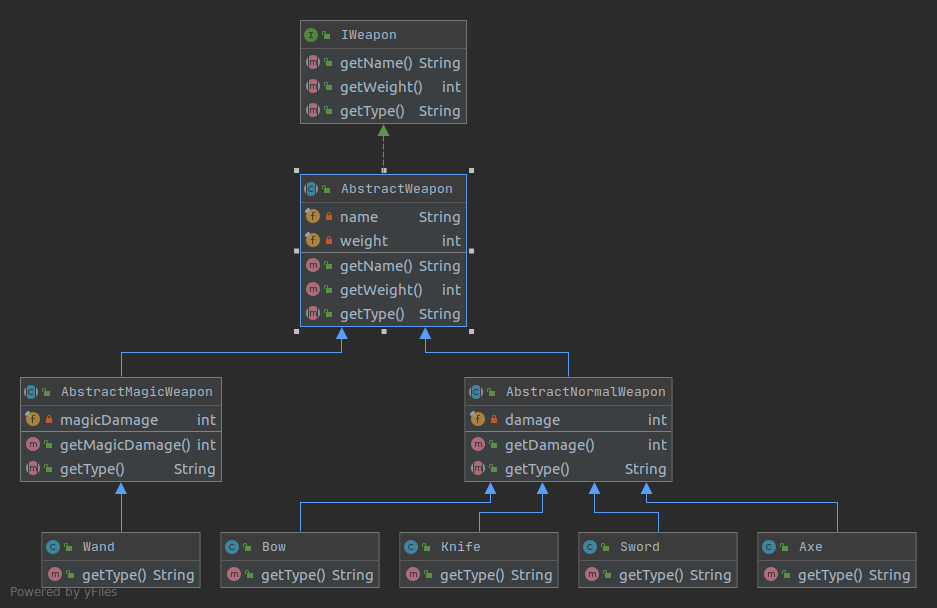
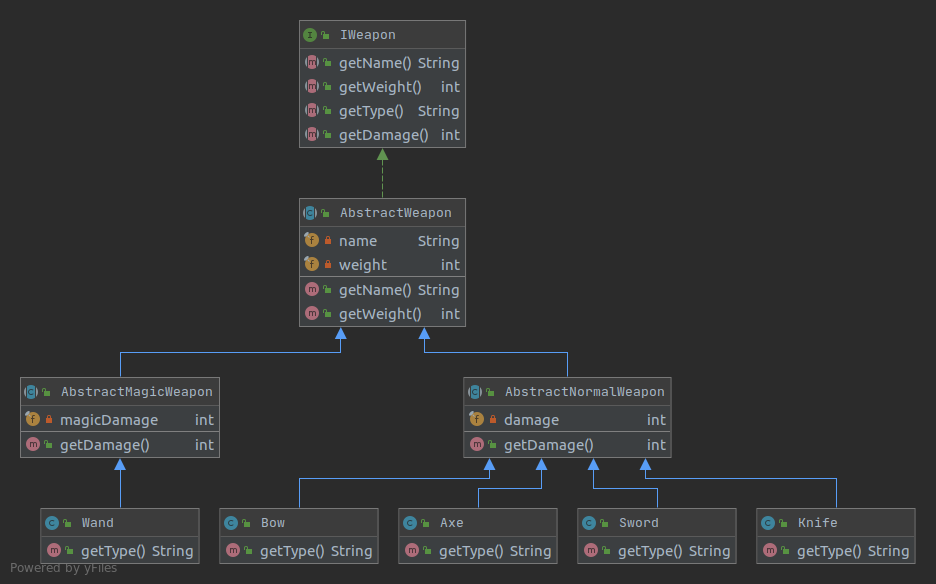
Reorganize the weapon's methods

diff --git a/src/main/java/com/github/cc3002/finalreality/model/weapon/AbstractMagicWeapon.java b/src/main/java/com/github/cc3002/finalreality/model/weapon/AbstractMagicWeapon.java
@@ -14,10 +14,9 @@ public abstract class AbstractMagicWeapon extends AbstractWeapon {
     /**
      * Returns the magicDamage of a MagicWeapon
      */
-    public int getMagicDamage() {
+    @Override
+    public int getDamage() {
         return this.magicDamage;
     }
 
-    @Override
-    public abstract String getType();
 }

diff --git a/src/main/java/com/github/cc3002/finalreality/model/weapon/AbstractNormalWeapon.java b/src/main/java/com/github/cc3002/finalreality/model/weapon/AbstractNormalWeapon.java
@@ -15,10 +15,8 @@ public abstract class AbstractNormalWeapon extends AbstractWeapon{
     /**
      * Returns the damage of a normal Weapon
      */
+    @Override
     public int getDamage() {
         return this.damage;
     }
-
-    @Override
-    public abstract String getType();
 }

diff --git a/src/main/java/com/github/cc3002/finalreality/model/weapon/IWeapon.java b/src/main/java/com/github/cc3002/finalreality/model/weapon/IWeapon.java
@@ -17,6 +17,10 @@ public interface IWeapon {
      */
     public String getType();
     /**
+     * Returns the damage of a weapon, could be magicDamage or damage.
+     */
+    public int getDamage();
+    /**
      * We should add some other common methods for all weapons.
      */
 

diff --git a/src/main/java/com/github/cc3002/finalreality/model/weapon/AbstractWeapon.java b/src/main/java/com/github/cc3002/finalreality/model/weapon/AbstractWeapon.java
@@ -30,8 +30,5 @@ public abstract class AbstractWeapon implements IWeapon {
     return this.weight;
   }
 
-  @Override
-  public abstract String getType();
-
 
 }
